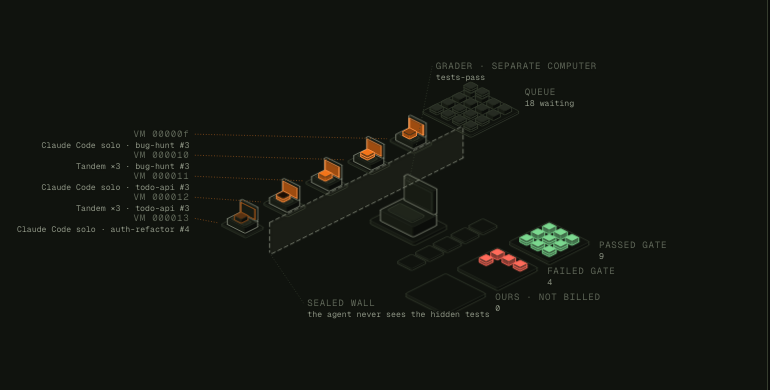
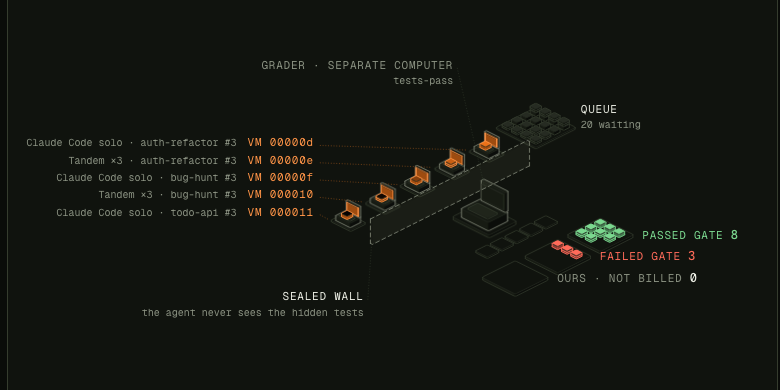
pipeline figure labels: HTML callouts at a fixed readable size (11px names, 10px details) pinned to the drawing via ResizeObserver, leader lines stay in SVG; bay names on one line (VM id + setup · task), bin counts inline, grader/wall labels moved clear of the queue and bins; wider label gutter

diff --git a/apps/web/components/live/PipelineFigure.tsx b/apps/web/components/live/PipelineFigure.tsx
@@ -8,7 +8,7 @@
 // different computer behind the wall, so the agent can't see them or game them. A block only moves
 // on a trial.phase event, a bay's screen flashes on each real heartbeat, and the bins count gate
 // results only (no speed or quality number before the report).
-import { useEffect, useMemo, useRef } from "react";
+import { useEffect, useMemo, useRef, useState } from "react";
 import { fitProjection, iso, slabOf, type Point3, type Projection } from "../../lib/iso/kit";
 import { tileTone, type LiveRun, type LiveTrial } from "../../lib/live/model";
 import { runningView, TRIAL_STAGE, type LiveTrialCard } from "../../lib/live/phase";
@@ -170,6 +170,10 @@ interface Label {
   title: string;
   sub?: string;
   tone?: "live" | "pass" | "fail" | "muted";
+  /** Title and sub on one line (the bays' names, so rows don't collide). */
+  inline?: boolean;
+  /** A big number under the title (bin counts). */
+  count?: number;
   /** A leader line from the label to what it names. */
   leader?: [number, number, number, number];
 }
@@ -184,8 +188,8 @@ export function PipelineFigure({ live, view, nowMs, active, onFocus }: FigurePro
   const geo = useMemo(() => {
     const stations = stationParts();
     const extent: Point3[] = [...stations.flatMap(cornersOf), P(QU, QV, 22), P(BU, 0, 24)];
-    const fit = fitProjection(extent, W - 330, H - 40, { pad: 4 });
-    const proj: Projection = { ...fit, origin: [fit.origin[0] + 190, fit.origin[1] + 34] };
+    const fit = fitProjection(extent, W - 440, H - 44, { pad: 4 });
+    const proj: Projection = { ...fit, origin: [fit.origin[0] + 318, fit.origin[1] + 36] };
     const solids = new Map(stations.map((p) => [p.id, solidOf(p, proj)]));
     const order = paintOrder(stations, proj);
     const tokens = [1, 2, 3].map((n) =>
@@ -201,6 +205,28 @@ export function PipelineFigure({ live, view, nowMs, active, onFocus }: FigurePro
     };
     const abs = (pt: Point3) => iso(pt, proj);
     return { solids, order, tokens, at, abs };
+  }, []);
+
+  // Where the drawing lands inside its box (preserveAspectRatio "meet"), for the HTML labels.
+  const wrap = useRef<HTMLDivElement>(null);
+  const [box, setBox] = useState<{ s: number; ox: number; oy: number } | null>(null);
+  useEffect(() => {
+    const el = wrap.current;
+    if (!el) return;
+    const measure = () => {
+      const { width, height } = el.getBoundingClientRect();
+      if (!width || !height) {
+        setBox({ s: 1, ox: 0, oy: 0 });
+        return;
+      }
+      const s = Math.min(width / W, height / H);
+      setBox({ s, ox: (width - W * s) / 2, oy: (height - H * s) / 2 });
+    };
+    measure();
+    if (typeof ResizeObserver === "undefined") return;
+    const ro = new ResizeObserver(measure);
+    ro.observe(el);
+    return () => ro.disconnect();
   }, []);
 
   // Build in once when the phase begins.
@@ -260,7 +286,7 @@ export function PipelineFigure({ live, view, nowMs, active, onFocus }: FigurePro
     sub: `${queued} waiting`,
   });
   // Bay names in a column on the left, each with a leader line to its computer.
-  const gutter = 178;
+  const gutter = 304;
   BAY_VS.forEach((bv, i) => {
     const c = v.live[i];
     const [x0, y0] = geo.abs(P(BAY_U - 24 * BAY_K, bv + 18 * BAY_K, 3));
@@ -271,6 +297,7 @@ export function PipelineFigure({ live, view, nowMs, active, onFocus }: FigurePro
       title: c ? `VM ${c.computerId ? c.computerId.slice(-6) : "starting"}` : `BAY ${i + 1} · IDLE`,
       sub: c ? `${c.setup} · ${c.task} #${c.repeat + 1}` : undefined,
       tone: c ? "live" : "muted",
+      inline: true,
       leader: [gutter + 6, y0 - 5, x0 - 3, y0],
     });
   });
@@ -278,21 +305,21 @@ export function PipelineFigure({ live, view, nowMs, active, onFocus }: FigurePro
   const wb = geo.abs(P(WALL_U, 118, 0));
   labels.push({
     id: "wall",
-    at: [wb[0] + 40, H - 22],
-    anchor: "start",
+    at: [wb[0] - 8, H - 26],
+    anchor: "end",
     title: "SEALED WALL",
     sub: "the agent never sees the hidden tests",
-    leader: [wb[0] + 36, H - 25, wb[0], wb[1] + 2],
+    leader: [wb[0] - 4, H - 29, wb[0], wb[1] + 2],
   });
   const gt = geo.abs(P(GU, 0, 38));
   labels.push({
     id: "grader",
-    at: [gt[0] + 30, 18],
-    anchor: "start",
+    at: [gt[0] - 34, 20],
+    anchor: "end",
     title: "GRADER · SEPARATE COMPUTER",
     sub: `${gateName}${grading ? ` · grading ${grading}` : ""}`,
     tone: graderLive ? "live" : "muted",
-    leader: [gt[0] + 26, 15, gt[0], gt[1] - 4],
+    leader: [gt[0] - 30, 17, gt[0], gt[1] - 4],
   });
   (Object.keys(BINS) as Bin[]).forEach((bin) => {
     const [x0, y0] = geo.abs(P(BU + 25, BINS[bin] - 25, 0));
@@ -301,89 +328,100 @@ export function PipelineFigure({ live, view, nowMs, active, onFocus }: FigurePro
       at: [x0 + 10, y0 + 4],
       anchor: "start",
       title: bin === "pass" ? "PASSED GATE" : bin === "fail" ? "FAILED GATE" : "OURS · NOT BILLED",
-      sub: String(counts[bin]),
+      count: counts[bin],
       tone: bin === "pass" ? "pass" : bin === "fail" ? "fail" : "muted",
     });
   });
 
   return (
-    <svg
-      className={styles.fig}
-      viewBox={`0 0 ${W} ${H}`}
-      preserveAspectRatio="xMidYMid meet"
-      data-testid="phase-figure"
-      data-phase={state}
-      data-active={active || undefined}
-    >
-      {geo.order.map((p, i) => {
-        const bay = bayOfPart(p.id);
-        const card = bay !== null ? v.live[bay] : undefined;
-        const clickable = card
-          ? { kind: "trial" as const, id: card.id }
-          : p.id.startsWith("grader")
-            ? { kind: "grader" as const }
-            : null;
-        const tone = toneOf(p);
-        return (
-          <g
-            key={`${p.id}:${tone}`}
-            className={clickable ? styles.hit : undefined}
-            onClick={clickable ? (e) => focus(e, clickable) : undefined}
-          >
-            <SolidG
-              s={geo.solids.get(p.id)!}
-              tone={tone}
-              beat={beatOf(p)}
-              style={{ "--i": fresh.current ? Math.min(i, 30) : 0 } as React.CSSProperties}
-            />
-          </g>
-        );
-      })}
-
-      {placed.map(({ t, spot, tone, shape }) => {
-        const [dx, dy] = geo.at(slot(spot));
-        return (
-          <g
-            key={t.id}
-            className={styles.token}
-            style={{ transform: `translate(${dx.toFixed(1)}px, ${dy.toFixed(1)}px)` }}
-            data-at={spot.at}
-            data-testid="trial-token"
-            data-tone={tone}
-            onClick={(e) => focus(e, { kind: "trial", id: t.id })}
-          >
-            <title>{`${setupName(t)} · ${t.workload} #${t.repeat + 1}: ${t.state}`}</title>
-            {/* Remounts when the trial moves on, so it hops into its new station. */}
-            <g key={`${spot.at}:${tone}`} className={styles.hop}>
-              {geo.tokens[shape - 1]!.map(({ part, s }) => (
-                <SolidG key={part.id} s={s} tone={tone} />
-              ))}
+    <div className={styles.figWrap} ref={wrap} data-testid="phase-figure" data-phase={state}>
+      <svg
+        className={styles.fig}
+        viewBox={`0 0 ${W} ${H}`}
+        preserveAspectRatio="xMidYMid meet"
+        data-active={active || undefined}
+      >
+        {geo.order.map((p, i) => {
+          const bay = bayOfPart(p.id);
+          const card = bay !== null ? v.live[bay] : undefined;
+          const clickable = card
+            ? { kind: "trial" as const, id: card.id }
+            : p.id.startsWith("grader")
+              ? { kind: "grader" as const }
+              : null;
+          const tone = toneOf(p);
+          return (
+            <g
+              key={`${p.id}:${tone}`}
+              className={clickable ? styles.hit : undefined}
+              onClick={clickable ? (e) => focus(e, clickable) : undefined}
+            >
+              <SolidG
+                s={geo.solids.get(p.id)!}
+                tone={tone}
+                beat={beatOf(p)}
+                style={{ "--i": fresh.current ? Math.min(i, 30) : 0 } as React.CSSProperties}
+              />
             </g>
-          </g>
-        );
-      })}
+          );
+        })}
 
-      {labels.map((l) => (
-        <g key={l.id} className={styles.label} data-tone={l.tone}>
-          {l.leader ? (
+        {placed.map(({ t, spot, tone, shape }) => {
+          const [dx, dy] = geo.at(slot(spot));
+          return (
+            <g
+              key={t.id}
+              className={styles.token}
+              style={{ transform: `translate(${dx.toFixed(1)}px, ${dy.toFixed(1)}px)` }}
+              data-at={spot.at}
+              data-testid="trial-token"
+              data-tone={tone}
+              onClick={(e) => focus(e, { kind: "trial", id: t.id })}
+            >
+              <title>{`${setupName(t)} · ${t.workload} #${t.repeat + 1}: ${t.state}`}</title>
+              {/* Remounts when the trial moves on, so it hops into its new station. */}
+              <g key={`${spot.at}:${tone}`} className={styles.hop}>
+                {geo.tokens[shape - 1]!.map(({ part, s }) => (
+                  <SolidG key={part.id} s={s} tone={tone} />
+                ))}
+              </g>
+            </g>
+          );
+        })}
+
+        {labels.map((l) =>
+          l.leader ? (
             <line
+              key={l.id}
               className={styles.leader}
+              data-tone={l.tone}
               x1={l.leader[0]}
               y1={l.leader[1]}
               x2={l.leader[2]}
               y2={l.leader[3]}
             />
-          ) : null}
-          <text x={l.at[0]} y={l.at[1]} textAnchor={l.anchor} className={styles.labelTitle}>
-            {l.title}
-          </text>
-          {l.sub ? (
-            <text x={l.at[0]} y={l.at[1] + 12} textAnchor={l.anchor} className={styles.labelSub}>
-              {l.sub}
-            </text>
-          ) : null}
-        </g>
-      ))}
-    </svg>
+          ) : null,
+        )}
+      </svg>
+      {/* Labels are HTML at a fixed, readable size, pinned to the drawing's coordinates. */}
+      {box
+        ? labels.map((l) => (
+            <div
+              key={l.id}
+              className={styles.callout}
+              data-tone={l.tone}
+              data-anchor={l.anchor}
+              data-inline={l.inline || undefined}
+              style={{ left: box.ox + l.at[0] * box.s, top: box.oy + l.at[1] * box.s }}
+            >
+              <span className={styles.calloutTitle}>
+                {l.title}
+                {l.count !== undefined ? <b className={styles.calloutCount}>{l.count}</b> : null}
+              </span>
+              {l.sub ? <span className={styles.calloutSub}>{l.sub}</span> : null}
+            </div>
+          ))
+        : null}
+    </div>
   );
 }

diff --git a/apps/web/components/live/figure.module.css b/apps/web/components/live/figure.module.css
@@ -363,3 +363,73 @@
     display: none;
   }
 }
+
+/* ---- HTML callouts over the drawing: readable at any scale ---- */
+.figWrap {
+  position: relative;
+  width: 100%;
+  height: 100%;
+}
+.callout {
+  position: absolute;
+  display: flex;
+  flex-direction: column;
+  gap: 2px;
+  transform: translate(0, -0.8em);
+  font-family: var(--mono);
+  white-space: nowrap;
+  pointer-events: none;
+}
+.callout[data-anchor="end"] {
+  transform: translate(-100%, -0.8em);
+  align-items: flex-end;
+  text-align: right;
+}
+.callout[data-anchor="middle"] {
+  transform: translate(-50%, -0.8em);
+  align-items: center;
+  text-align: center;
+}
+.callout[data-inline] {
+  flex-direction: row-reverse;
+  gap: 0.7em;
+  align-items: baseline;
+}
+.callout[data-inline]:not([data-anchor="end"]) {
+  flex-direction: row;
+}
+.calloutTitle {
+  font-size: 11px;
+  line-height: 1.3;
+  letter-spacing: 0.07em;
+  color: var(--fg);
+}
+.calloutSub {
+  font-size: 10px;
+  line-height: 1.3;
+  color: var(--muted);
+}
+.calloutCount {
+  margin-left: 0.6em;
+  font-weight: 500;
+  font-size: 12px;
+  color: var(--fg);
+  font-variant-numeric: tabular-nums;
+}
+.callout[data-tone="live"] .calloutTitle {
+  color: var(--accent-ink);
+}
+.callout[data-tone="pass"] .calloutTitle,
+.callout[data-tone="pass"] .calloutCount {
+  color: var(--pass);
+}
+.callout[data-tone="fail"] .calloutTitle,
+.callout[data-tone="fail"] .calloutCount {
+  color: var(--fail);
+}
+.callout[data-tone="muted"] .calloutTitle {
+  color: var(--muted);
+}
+.leader[data-tone="live"] {
+  stroke: color-mix(in srgb, var(--accent) 55%, var(--line));
+}

diff --git a/apps/web/AGENTS.md b/apps/web/AGENTS.md
@@ -1,0 +1,9 @@
+<!-- BEGIN:nextjs-agent-rules -->
+
+## This is NOT the Next.js you know
+
+This version has breaking changes — APIs, conventions, and file structure may all differ from your training data. Read the relevant guide in `node_modules/next/dist/docs/` (resolved from this file's directory; in monorepos the `next` package may not be visible from the repo root) before writing any code. Heed deprecation notices.
+
+This block is written and re-added by `next dev` — verify at `node_modules/next/dist/server/lib/generate-agent-files.js`. Removing it from a diff only re-creates the uncommitted change; committing it with your work keeps the tree clean.
+
+<!-- END:nextjs-agent-rules -->
